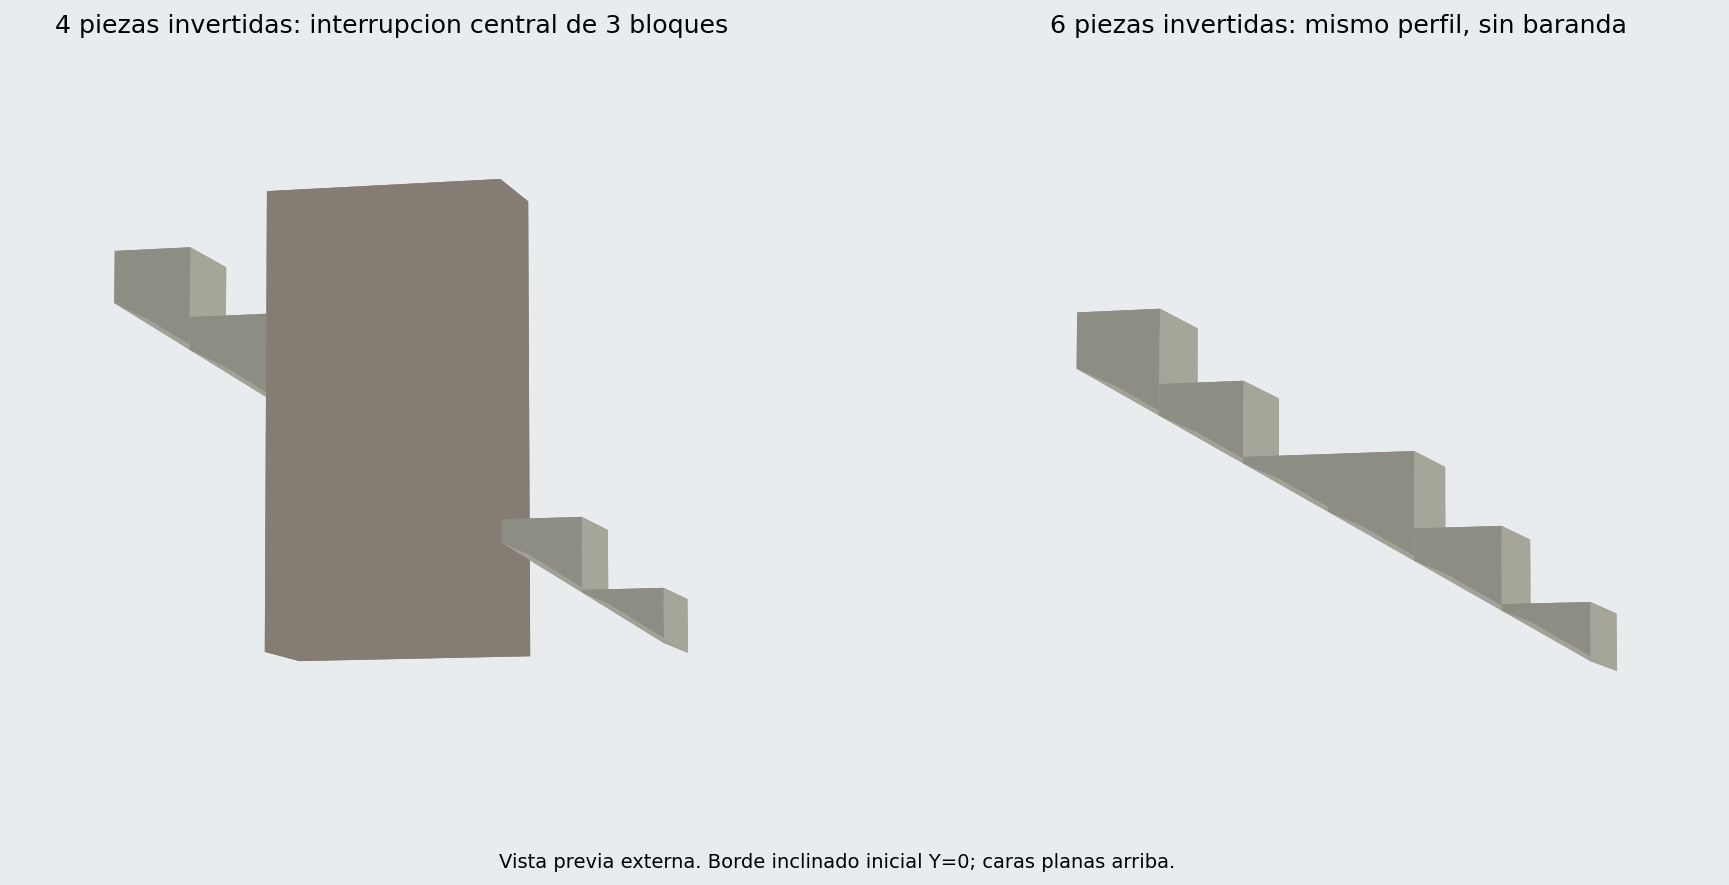
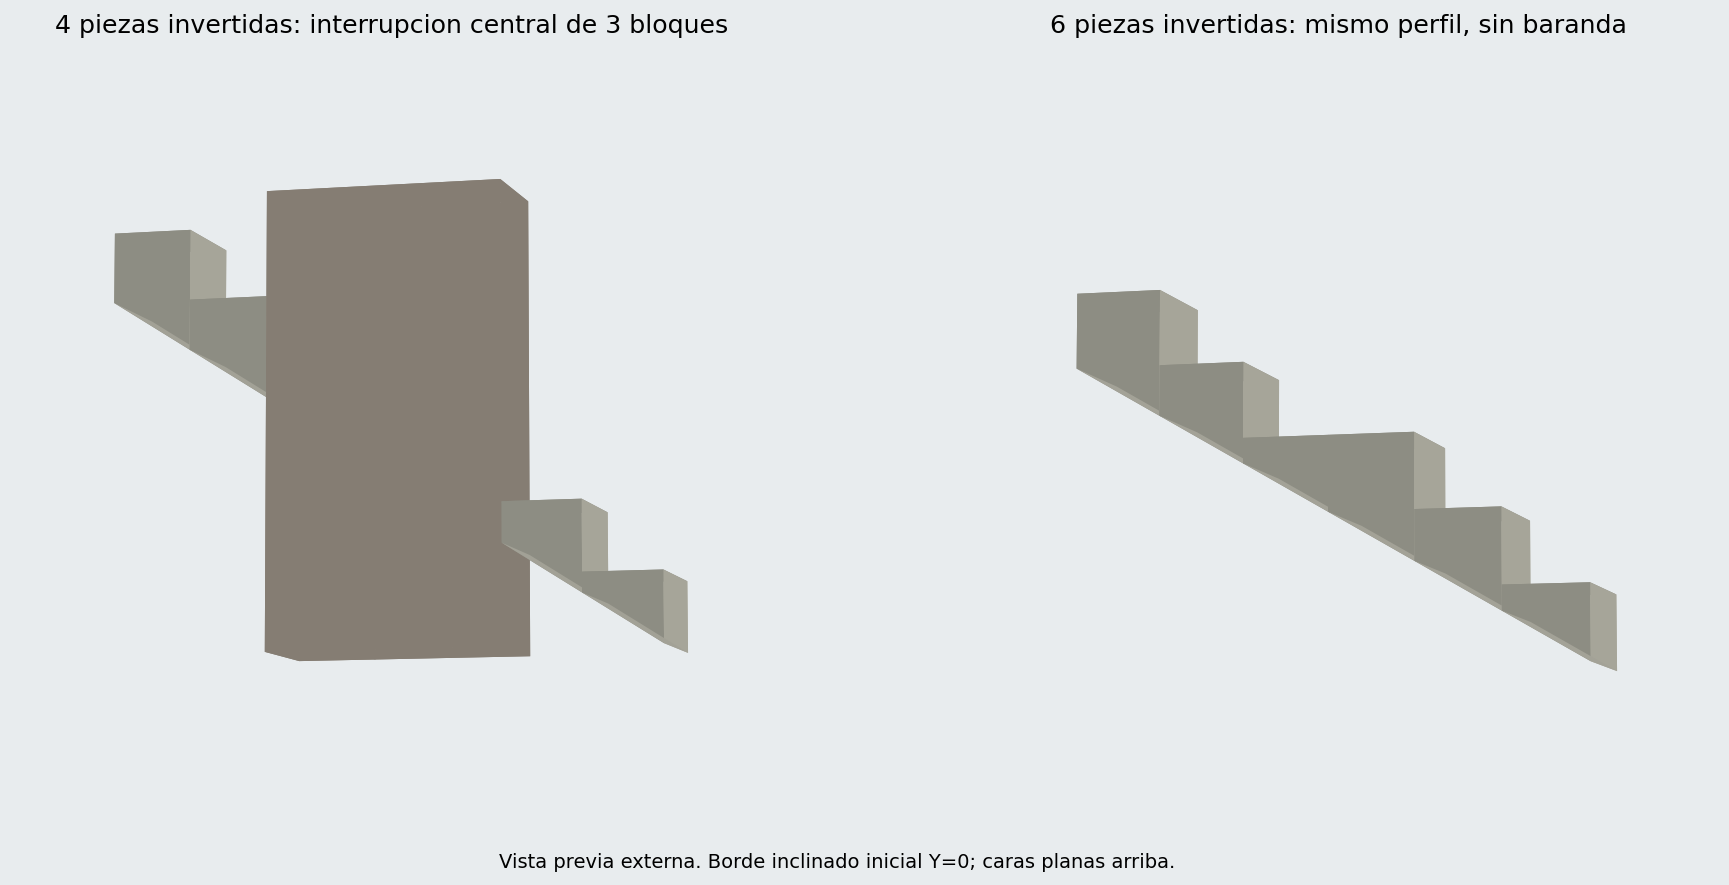
Completa los cuatro píxeles superiores de las pendientes invertidas
Eleva únicamente la tapa plana de Y=12 a Y=16 px en las diez piezas sin baranda y ajusta la colisión para cerrar los huecos superiores. Conserva el borde inclinado, pendientes, inicio Y=0, posiciones y UV.

Generador y regresión verifican el perfil original sin cambios, las UV idénticas y el volumen adicional de 1/4 por pieza. Actualiza guía y vista previa.

Validación estática correcta: 80 estados nuevos y regresión de pendientes originales. Sin compilación ni prueba Minecraft.

diff --git a/tools/check_school_inverted_slopes.py b/tools/check_school_inverted_slopes.py
@@ -10,8 +10,9 @@ def main():
  for (ident,col,row,low,rise),original in zip(plan,old):
   source_id,source_col,source_row,source_low,source_rise,post=original
   assert col==source_col and row==-source_row and rise==source_rise
-  v,uv,faces=mesh(A/f'models/block/{ident}.obj');source,_,_=mesh(A/f'models/block/{source_id}.obj')
-  wall=source[:24].copy();wall[:,1]=.75-wall[:,1];assert np.allclose(v,wall)
+  v,uv,faces=mesh(A/f'models/block/{ident}.obj');source,source_uv,_=mesh(A/f'models/block/{source_id}.obj')
+  wall=source[:24].copy();original_y=wall[:,1].copy();wall[:,1]=.75-original_y;wall[original_y==0,1]=1;assert np.allclose(v,wall)
+  assert np.allclose(uv,source_uv[:24])
   assert len(v)==24 and len(faces)==6 and all(material=='wall' for material,_ in faces)
   assert uv.min()>=-1e-10 and uv.max()<=1+1e-10
   center=v.mean(axis=0);volume=0
@@ -19,8 +20,8 @@ def main():
    p=v[indices];n=np.cross(p[1]-p[0],p[2]-p[0]);assert np.linalg.norm(n)>1e-9
    assert n@(p.mean(axis=0)-center)>0
    for j in range(1,len(p)-1):volume+=p[0]@np.cross(p[j],p[j+1])/6
-  assert math.isclose(volume,source_low+rise/2,abs_tol=1e-8)
-  assert np.isclose(v[:,1].max(),.75) and np.isclose(v[:,1].min(),low-rise)
+  assert math.isclose(volume,source_low+rise/2+.25,abs_tol=1e-8)
+  assert np.isclose(v[:,1].max(),1) and np.isclose(v[:,1].min(),low-rise)
   states=json.loads((A/f'blockstates/{ident}.json').read_text())['variants'];assert len(states)==4
   model=json.loads((A/f'models/block/{ident}.json').read_text());assert set(model['textures'])=={'wall','particle'}
   assert (A/f'items/{ident}.json').is_file()
@@ -33,6 +34,7 @@ def main():
  assert math.isclose(plan[-1][2]+plan[-1][3]-plan[-1][4],-4)
  s=(ROOT/'src/main/java/net/nicomar2009/lsmmod/block/SchoolInvertedSlopeBlock.java').read_text()
  assert 'SimpleBlockOutline.forState' in s and 'protected VoxelShape getCollisionShape' in s
+ assert '1,1,1-t0' in s
  assert 'HALF' not in s and 'SchoolWallRailingBlock' not in s
- print('OK: 10 new wall-only inverted pieces, 80 states, exact Y reflection, Y=0 start, winding/UV/volumes and continuous endpoints.')
+ print('OK: 10 new wall-only inverted pieces, 80 states, inclined profile unchanged, flat top Y=16px, Y=0 start, winding/UV/volumes and continuous endpoints.')
 if __name__=='__main__':main()

diff --git a/tools/create_school_inverted_slopes.py b/tools/create_school_inverted_slopes.py
@@ -16,8 +16,8 @@ def inverted_obj(original_low,rise):
   elif f[0]=='usemtl':material=f[1]
   elif f[0]=='f' and material=='wall':faces.append(f[1:][::-1])
  # Only the wall's first 24 vertices/UVs are retained. Reflection reverses winding.
- out=['# Wall only: Ynew = 12/16 - Yoriginal.','mtllib school_inverted_slopes.mtl','usemtl wall']
- out+=['v '+' '.join(f'{v:.12g}' for v in (x,.75-y,z)) for x,y,z in vertices[:24]]
+ out=['# Wall only: inclined profile reflected; flat top extended from 12 px to 16 px.','mtllib school_inverted_slopes.mtl','usemtl wall']
+ out+=['v '+' '.join(f'{v:.12g}' for v in (x,1.0 if y==0 else .75-y,z)) for x,y,z in vertices[:24]]
  out+=['vt '+' '.join(f'{v:.12g}' for v in p) for p in uv[:24]]
  out+=['f '+' '.join(f) for f in faces]
  return '\n'.join(out)+'\n'
@@ -46,5 +46,5 @@ def main():
    v['block.lsmmod.'+ident]=f'Pendiente invertida sin baranda: {family} {number}' if locale=='es_es' else f'Inverted unrailed slope: {"split" if "_split_" in ident else "flight"} {number}'
   write(p,v)
  p=ROOT/'src/main/resources/data/minecraft/tags/block/mineable/pickaxe.json';v=json.loads(p.read_text());v['values']=list(dict.fromkeys(v['values']+['lsmmod:'+x[0] for x in pieces()]));write(p,v)
- write(ROOT/'tools/school_inverted_slope_layout.json',{'start_y':0,'transform':'Ynew = 0.75 - Yoriginal','pieces':[{'id':ident,'column':col,'row':row,'lower_start':low,'rise':rise} for ident,col,row,low,rise in pieces()]})
+ write(ROOT/'tools/school_inverted_slope_layout.json',{'start_y':0,'transform':'inclined profile Ynew = 0.75 - Yoriginal; flat top Y=1','flat_top_y':1,'pieces':[{'id':ident,'column':col,'row':row,'lower_start':low,'rise':rise} for ident,col,row,low,rise in pieces()]})
 if __name__=='__main__':main()

diff --git a/src/main/java/net/nicomar2009/lsmmod/block/SchoolInvertedSlopeBlock.java b/src/main/java/net/nicomar2009/lsmmod/block/SchoolInvertedSlopeBlock.java
@@ -33,7 +33,7 @@ public class SchoolInvertedSlopeBlock extends Block implements SimpleWaterlogged
         VoxelShape shape=Shapes.empty();
         for(int i=0;i<32;i++) {
             double t0=i/32.0,t1=(i+1)/32.0;
-            shape=Shapes.or(shape,Shapes.box(0,lowerStart-rise*t1,1-t1,1,12/16.0,1-t0));
+            shape=Shapes.or(shape,Shapes.box(0,lowerStart-rise*t1,1-t1,1,1,1-t0));
         }
         collisions[0]=shape.optimize();
         for(int i=1;i<4;i++) {

diff --git a/docs/SCHOOL_INVERTED_SLOPES.md b/docs/SCHOOL_INVERTED_SLOPES.md
@@ -2,7 +2,7 @@
 
 Diez bloques nuevos e independientes: `school_inverted_slope_split_1..4` y `school_inverted_slope_flight_1..6`. Conservan las pendientes de sus respectivas piezas con baranda (5/7 y 2/3), pero contienen únicamente pared clara. Sus nombres traducidos aparecen en la pestaña creativa. Un ítem coloca una pieza; romperla devuelve solo ese ítem.
 
-Se invierte la geometría en Y después de retirar el desplazamiento inicial de 12 píxeles: **Y nueva = 12/16 − Y original**. El primer borde inclinado empieza en Y=0; la cara plana queda arriba, en Y=12 píxeles de cada celda. Los cantos inclinados descienden en la dirección horizontal del jugador. Para ver la subida en sentido contrario, gira las piezas. No existe un estado HALF: son variantes invertidas fijas, separadas de los originales.
+Se invierte la geometría en Y después de retirar el desplazamiento inicial de 12 píxeles: **Y nueva = 12/16 − Y original**. El primer borde inclinado empieza en Y=0; la cara plana queda arriba, en Y=16 píxeles de cada celda. Los cantos inclinados descienden en la dirección horizontal del jugador. Para ver la subida en sentido contrario, gira las piezas. No existe un estado HALF: son variantes invertidas fijas, separadas de los originales.
 
 ## Montaje desde el extremo superior
 
@@ -23,6 +23,8 @@ Las alturas se expresan respecto de la celda de la primera pieza; valores negati
 | Continuo | 6 | 5 | -4 |
 
 Todas las piezas del montaje miran hacia el descenso. El tramo interrumpido conserva las columnas ocultas por el soporte de tres bloques, sin geometría dentro de ellas. El continuo conserva los seis bloques de recorrido y cuatro de desnivel del montaje superior, pero su borde inicial parte de cero en lugar de 12 px.
+
+Se añaden los cuatro píxeles superiores que faltaban: únicamente la tapa plana pasa de Y=12 a Y=16 px. El borde inclinado, las UV, las posiciones y el inicio Y=0 se conservan. La colisión cubre también esa extensión.
 
 Los modelos OBJ tienen caras planas y normales corregidas tras la reflexión. UV originales de pared clara, sin materiales metálicos. Cuatro orientaciones, espejo, rotación y agua. Selección con caja simple, colisión precalculada independiente con una aproximación de medio píxel como máximo. La parte inclinada puede salir por debajo de la celda; deja ese volumen libre al montarla. No se colocan celdas auxiliares ni relleno automáticamente.
 

diff --git a/START_HERE.md b/START_HERE.md
@@ -409,3 +409,6 @@ Todos los docs del plan existen desde la sesión 4. `PLANNED` = se escribe solo 
 
 
 2026-10-10 — Diez nuevas pendientes invertidas sin baranda: school_inverted_slope_split_1..4 y school_inverted_slope_flight_1..6. Reflexión exacta del muro Ynuevo=0.75−Yoriginal, eliminando el desplazamiento inicial de 12 px; borde inclinado inicial Y=0, caras planas superiores a 12 px por celda. Misma pendiente 5/7 del tramo interrumpido y 2/3 del continuo; posiciones de celda reflejadas en Y, interrupción de tres columnas conservada. SchoolInvertedSlopeBlock: inversión fija, orientación hacia descenso, agua/giro/espejo, colisión explícita precalculada separada del contorno simple. Mallas OBJ solo de muro claro, normales invertidas correctamente, sin metal ni postes. 80 estados nuevos/reflexión/UV/volúmenes/continuidad comprobados, regresión de originales conservada; guía docs/SCHOOL_INVERTED_SLOPES.md y preview externo. Publicación autorizada en master; sin compilación ni prueba Minecraft.
+
+
+2026-10-10 — Corrección de huecos superiores en las diez school_inverted_slope: se extiende únicamente la cara plana de Y=12 a Y=16 px (+4 px). Borde inclinado, pendientes, inicio Y=0, posiciones, UV y ausencia de baranda conservados. Generador actualiza solo los vértices superiores; colisión coincide con la tapa completa. Regresión de los 80 estados exige comparación exacta contra el perfil original y volumen adicional de 1/4 por pieza. Sin compilación ni prueba Minecraft; publicación autorizada en master.

diff --git a/docs/BLOCK_SPECS.md b/docs/BLOCK_SPECS.md
@@ -265,3 +265,6 @@ double_school_entrance: nueva puerta doble independiente de 3×3 bloques (48×48
 
 
 2026-10-10 — Diez nuevas pendientes invertidas sin baranda: school_inverted_slope_split_1..4 y school_inverted_slope_flight_1..6. Reflexión exacta del muro Ynuevo=0.75−Yoriginal, eliminando el desplazamiento inicial de 12 px; borde inclinado inicial Y=0, caras planas superiores a 12 px por celda. Misma pendiente 5/7 del tramo interrumpido y 2/3 del continuo; posiciones de celda reflejadas en Y, interrupción de tres columnas conservada. SchoolInvertedSlopeBlock: inversión fija, orientación hacia descenso, agua/giro/espejo, colisión explícita precalculada separada del contorno simple. Mallas OBJ solo de muro claro, normales invertidas correctamente, sin metal ni postes. 80 estados nuevos/reflexión/UV/volúmenes/continuidad comprobados, regresión de originales conservada; guía docs/SCHOOL_INVERTED_SLOPES.md y preview externo. Publicación autorizada en master; sin compilación ni prueba Minecraft.
+
+
+2026-10-10 — Corrección de huecos superiores en las diez school_inverted_slope: se extiende únicamente la cara plana de Y=12 a Y=16 px (+4 px). Borde inclinado, pendientes, inicio Y=0, posiciones, UV y ausencia de baranda conservados. Generador actualiza solo los vértices superiores; colisión coincide con la tapa completa. Regresión de los 80 estados exige comparación exacta contra el perfil original y volumen adicional de 1/4 por pieza. Sin compilación ni prueba Minecraft; publicación autorizada en master.

diff --git a/docs/FEATURES.md b/docs/FEATURES.md
@@ -230,3 +230,6 @@ double_school_entrance: nueva puerta doble independiente de 3×3 bloques (48×48
 
 
 2026-10-10 — Diez nuevas pendientes invertidas sin baranda: school_inverted_slope_split_1..4 y school_inverted_slope_flight_1..6. Reflexión exacta del muro Ynuevo=0.75−Yoriginal, eliminando el desplazamiento inicial de 12 px; borde inclinado inicial Y=0, caras planas superiores a 12 px por celda. Misma pendiente 5/7 del tramo interrumpido y 2/3 del continuo; posiciones de celda reflejadas en Y, interrupción de tres columnas conservada. SchoolInvertedSlopeBlock: inversión fija, orientación hacia descenso, agua/giro/espejo, colisión explícita precalculada separada del contorno simple. Mallas OBJ solo de muro claro, normales invertidas correctamente, sin metal ni postes. 80 estados nuevos/reflexión/UV/volúmenes/continuidad comprobados, regresión de originales conservada; guía docs/SCHOOL_INVERTED_SLOPES.md y preview externo. Publicación autorizada en master; sin compilación ni prueba Minecraft.
+
+
+2026-10-10 — Corrección de huecos superiores en las diez school_inverted_slope: se extiende únicamente la cara plana de Y=12 a Y=16 px (+4 px). Borde inclinado, pendientes, inicio Y=0, posiciones, UV y ausencia de baranda conservados. Generador actualiza solo los vértices superiores; colisión coincide con la tapa completa. Regresión de los 80 estados exige comparación exacta contra el perfil original y volumen adicional de 1/4 por pieza. Sin compilación ni prueba Minecraft; publicación autorizada en master.
